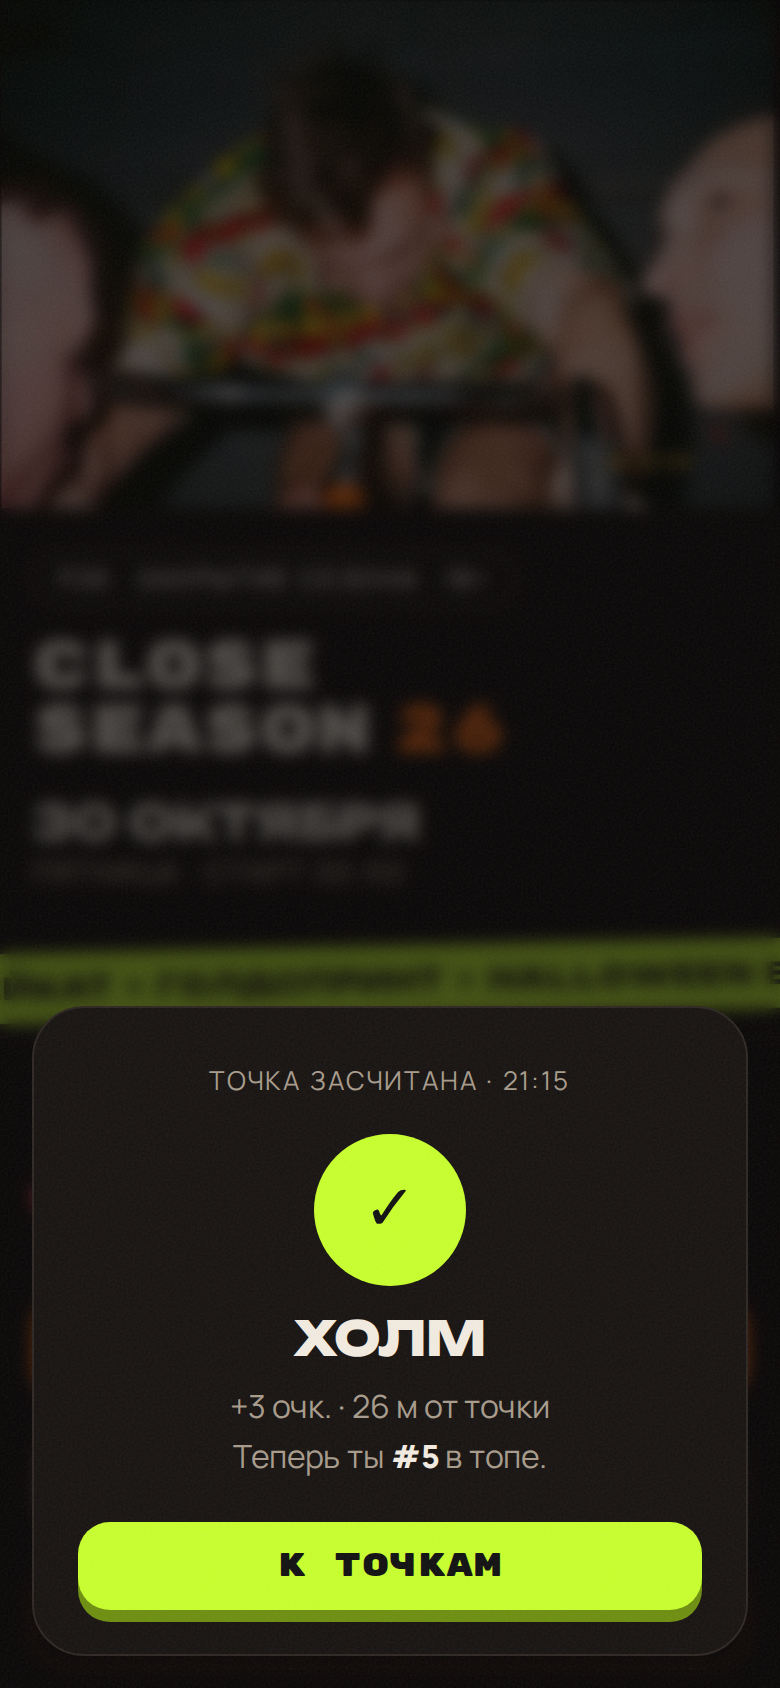
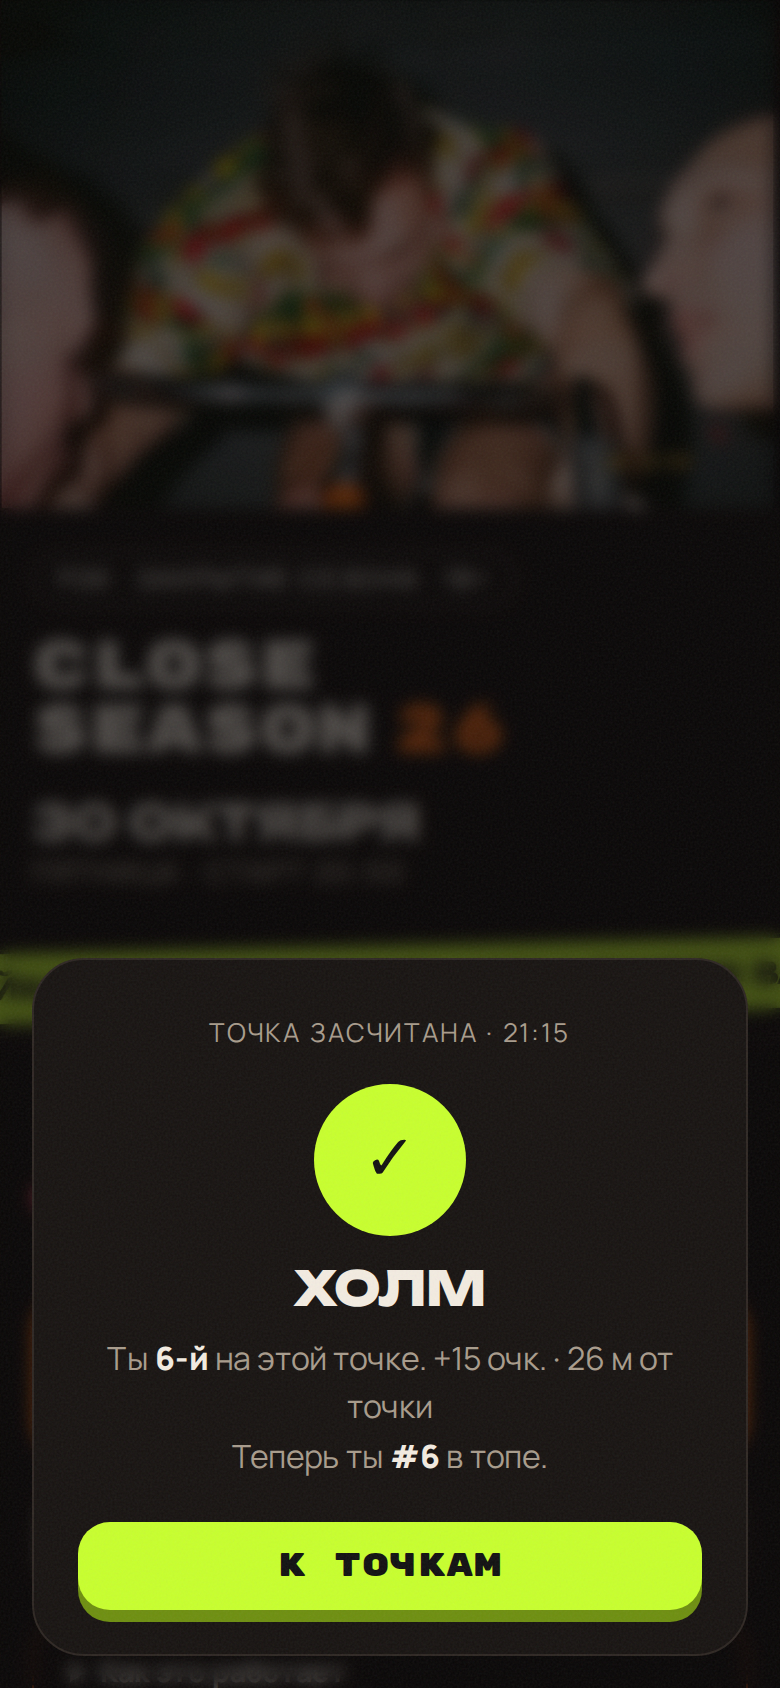
Черновик: очки по месту прибытия на точку (не опубликовано)
На каждой точке первый получает «Очки за первое место» (10), каждый
следующий на 1 меньше, не меньше минимума (1); ценность точки — множитель.
Финиш не сканируется и не идёт в зачёт. Ждёт подтверждения правила —
в unpavedrace/main не отправлено.

Claude-Session: https://claude.ai/code/session_0122weFEyBkPzVmy7e3pz2TB

diff --git a/server/test/server.test.js b/server/test/server.test.js
@@ -42,7 +42,7 @@ assert.equal(post({action:'register',telegram:'late',gender:'М',payment:'x'}).o
 st=get(); assert.equal(st.open,true); assert.equal(st.checkpoints.length,3); assert.ok(!('secret' in st.checkpoints[0])); assert.deepEqual(st.leaderboard,[]);
 r=post({action:'scan',nick:'bob_1',cp:'c1',k:'wrong',lat:c1[3],lng:c1[4]}); assert.match(r.error,/не подошёл/);
 r=post({action:'scan',nick:'bob_1',cp:'c1',k:c1[7],lat:c1[3]+0.01,lng:c1[4],accuracy:10}); assert.equal(r.far,true); 
-r=post({action:'scan',nick:'bob_1',cp:'c1',k:c1[7],lat:c1[3]+0.001,lng:c1[4],accuracy:10}); assert.equal(r.ok,true); assert.equal(r.value,1); 
+r=post({action:'scan',nick:'bob_1',cp:'c1',k:c1[7],lat:c1[3]+0.001,lng:c1[4],accuracy:10}); assert.equal(r.ok,true); assert.equal(r.value,10,'первый на точке ×1'); assert.equal(r.place,1); 
 r=post({action:'scan',nick:'bob_1',cp:'c1',k:c1[7],lat:c1[3],lng:c1[4]}); assert.equal(r.already,true);
 r=post({action:'scan',nick:'blocked_guy',cp:'c1',k:c1[7],lat:c1[3],lng:c1[4]}); assert.match(r.error,/не допущен/);
 r=post({action:'scan',nick:'ghost',cp:'c1',k:c1[7],lat:c1[3],lng:c1[4]}); assert.match(r.error,/Войди/);
@@ -50,7 +50,8 @@ r=post({action:'scan',nick:'bob_1',cp:'c2',k:c2[7],lat:c2[3],lng:c2[4],accuracy:
 r=post({action:'scan',nick:'fixie_masha',cp:'c2',k:c2[7],lat:c2[3],lng:c2[4],accuracy:5}); assert.equal(r.ok,true);
 r=post({action:'scan',nick:'bob_1',cp:'c2',k:c2[7],lat:c2[3],lng:c2[4],accuracy:5}); assert.equal(r.ok,true);
 st=get();
-assert.deepEqual(st.leaderboard.map(x=>[x.nick,x.score]),[['bob_1',3],['fixie_masha',2]]);
+// c2 ценность 2: masha первая (20), bob второй (18); c1: bob первый (10)
+assert.deepEqual(st.leaderboard.map(x=>[x.nick,x.score]),[['bob_1',28],['fixie_masha',20]]);
 // «Гонка только после оплаты»
 S('Настройки').data.find(r=>r[0]==='Гонка только после оплаты')[1]='да';
 r=post({action:'scan',nick:'early_bird',cp:'c1',k:c1[7],lat:c1[3],lng:c1[4],accuracy:5}); assert.match(r.error,/Оплата/);
@@ -58,7 +59,17 @@ S('Настройки').data.find(r=>r[0]==='Гонка только после 
 // повторный setup не затирает настройки и не дублирует строки
 const before=JSON.stringify(S('Настройки').data); ctx.setup(); assert.equal(JSON.stringify(S('Настройки').data),before);
 r=post({action:'scan',nick:'fixie_masha',cp:'c1',k:c1[7],lat:c1[3],lng:c1[4],accuracy:5}); 
-st=get(); assert.deepEqual(st.leaderboard.map(x=>[x.nick,x.score]),[['bob_1',3],['fixie_masha',3]],'tie: earlier first');
+st=get(); assert.deepEqual(st.leaderboard.map(x=>[x.nick,x.score]),[['fixie_masha',29],['bob_1',28]],'masha вторая на c1: +9');
+assert.deepEqual(st.leaderboard[0].scans.map(x=>x.slice(2)),[[1,20],[2,9]],'в топе видно место и очки на каждой точке');
+// правило очков: минимум, множитель, равенство по времени
+{ const sx={firstPoints:3,minPoints:1}; const P=[{id:'a',value:1},{id:'b',value:2},{id:'f',value:5,final:true}];
+  const sc=[['u1','a',1],['u2','a',2],['u3','a',3],['u4','a',4],['u4','b',5],['u3','b',6],['u1','f',7]].map(([nick,cp,at])=>({nick,cp,at}));
+  const lb=ctx.leaderboard_(sx,P,sc).map(x=>[x.nick,x.score]);
+  // a: 3,2,1,1 ; b(×2): u4 6, u3 4 ; финиш не считается
+  assert.deepEqual(lb,[['u4',7],['u3',5],['u1',3],['u2',2]]);
+  const P2=[{id:'a',value:1},{id:'c',value:1}];
+  const tie=ctx.leaderboard_(sx,P2,[{nick:'y',cp:'c',at:2},{nick:'x',cp:'a',at:1}]).map(x=>[x.nick,x.score]);
+  assert.deepEqual(tie,[['x',3],['y',3]],'при равенстве выше тот, кто набрал раньше'); }
 
 
 // описание, фото и координаты точек; перестройка старых листов
@@ -119,7 +130,7 @@ const NEW_HEAD=["ID","Название","Координаты","Ценность
   g6.ctx.setup();
   assert.deepEqual(pts.data.slice(1).map(r=>r[0]),["p2","p1","fin","","p3"]);
   assert.equal(pts.data[2][5],'s1','чужой секрет не меняется');
-  pts.data.slice(1).forEach(r=>{ if(r[0]){ assert.ok(r[5]); assert.match(r[6],new RegExp('\\?cp='+r[0]+'&k='+r[5]+'$')); } else assert.equal(r[6],''); });
+  pts.data.slice(1).forEach(r=>{ if(r[0]&&r[4]!=='да'){ assert.ok(r[5]); assert.match(r[6],new RegExp('\\?cp='+r[0]+'&k='+r[5]+'$')); } else { assert.equal(r[6],''); assert.equal(r[7],''); } });
 }
 
 // служебные команды по ключу администратора
@@ -130,7 +141,7 @@ const NEW_HEAD=["ID","Название","Координаты","Ценность
   assert.equal(call({op:'points'}).error,'Нет доступа'); assert.equal(call({op:'points',key:'wrong'}).error,'Нет доступа');
   const pts=g7.sheets['Точки'].data; pts[1][0]=''; pts[1][5]=''; pts[1][6]='';
   const res=call({op:'refresh',key}); assert.equal(res.ok,true); assert.equal(res.points[0].id,'p1'); assert.ok(res.points[0].secret);
-  assert.match(res.points[0].link,/\?cp=p1&k=/); assert.equal(res.points[2].id,'fin');
+  assert.match(res.points[0].link,/\?cp=p1&k=/); assert.equal(res.points[2].id,'fin'); assert.equal(res.points[2].link,'','у финиша нет QR');
   assert.equal(call({op:'points',key}).points.length,3);
   keyRow[1]=''; assert.equal(call({op:'points',key:''}).error,'Нет доступа','пустой ключ не открывает');
 }
@@ -156,6 +167,22 @@ const NEW_HEAD=["ID","Название","Координаты","Ценность
   r=post({action:'admin',op:'coords',key,id:'c1',lat:55.7612345,lng:49.1234567}); assert.equal(r.coords,'55.761235, 49.123457');
   assert.equal(row[2],'55.761235, 49.123457');
   assert.match(post({action:'admin',op:'coords',key,id:'nope',lat:1,lng:2}).error,/нет в таблице/);
+}
+
+// финиш: не сканируется и не идёт в зачёт
+{ const {load:l9}=require('./gas-mock'); const g9=l9(); g9.ctx.setup();
+  const S9=n=>g9.sheets[n]; S9('Настройки').data.find(r=>r[0]==='Старт')[1]=new Date(Date.now()+3600e3).toISOString();
+  const key=S9('Настройки').data.find(r=>r[0]==='Ключ администратора')[1];
+  const post=b=>JSON.parse(g9.ctx.doPost({postData:{contents:JSON.stringify(b)}}).s);
+  post({action:'register',telegram:'rider1',gender:'М',payment:'x'});
+  S9('Настройки').data.find(r=>r[0]==='Старт')[1]=new Date(Date.now()-1000).toISOString();
+  const finRow=S9('Точки').data.find(r=>r[0]==='fin'); assert.equal(finRow[6],''); assert.equal(finRow[7],'');
+  const [la,ln]=finRow[2].split(',').map(Number);
+  assert.match(post({action:'scan',nick:'rider1',cp:'fin',k:finRow[5],lat:la,lng:ln}).error,/финише/);
+  assert.match(post({action:'scan',test:key,cp:'fin',k:finRow[5],lat:la,lng:ln}).error,/финиш/);
+  // даже если в «Сканах» оказалась строка финиша, в очки она не идёт
+  S9('Сканы').data.push([new Date(),'rider1','fin',5,0,5,'ok']); g9.cache.clear();
+  assert.deepEqual(JSON.parse(g9.ctx.doGet({parameter:{action:'state'}}).s).leaderboard,[]);
 }
 
 // без setup - понятная ошибка

diff --git a/app.js b/app.js
@@ -90,17 +90,25 @@
     const regs = { [R.demoUser.nick]: { amount: 300, paid: true } };
     const price = (g) => (g === "Ж" ? 0 : Date.now() < Date.parse("2026-10-26T00:00:00+03:00") ? 300 : 600);
 
+    // как на сервере: первый на точке получает 10, следующий на 1 меньше (не меньше 1), × ценность
+    const placePts = (value, place) => value * Math.max(10 - (place - 1), 1);
     function board() {
       const all = R.riders.map((r) => ({ nick: r.nick, scans: r.scans.map(([id, m]) => [id, at(m)]) }));
       if (mine.length) all.push({ nick: R.demoUser.nick, scans: mine });
-      return all
-        .map((r) => ({
-          nick: r.nick,
-          scans: r.scans,
-          score: r.scans.reduce((s, [id]) => s + byId[id].value, 0),
-          reachedAt: Math.max(...r.scans.map((x) => x[1])),
-        }))
-        .sort((a, b) => b.score - a.score || a.reachedAt - b.reachedAt);
+      const flat = [];
+      all.forEach((r) => r.scans.forEach(([id, t]) => flat.push({ nick: r.nick, id, t })));
+      const placed = {};
+      const rows = {};
+      flat.sort((a, b) => a.t - b.t).forEach((x) => {
+        if (byId[x.id].final) return;
+        const place = (placed[x.id] = (placed[x.id] || 0) + 1);
+        const pts = placePts(byId[x.id].value, place);
+        const r = rows[x.nick] || (rows[x.nick] = { nick: x.nick, score: 0, reachedAt: 0, scans: [] });
+        r.score += pts;
+        r.reachedAt = Math.max(r.reachedAt, x.t);
+        r.scans.push([x.id, x.t, place, pts]);
+      });
+      return Object.values(rows).sort((a, b) => b.score - a.score || a.reachedAt - b.reachedAt);
     }
 
     return {
@@ -143,8 +151,9 @@
         const d = distanceM(v, c);
         if (d > R.radius) return { ok: false, far: true, distance: Math.round(d), radius: R.radius, cp: v.cp };
         const t = at(75);
+        const place = board().reduce((n, r) => n + r.scans.filter((x) => x[0] === v.cp).length, 0) + 1;
         mine.push([v.cp, t]);
-        return { ok: true, cp: v.cp, value: c.value, distance: Math.round(d), at: t };
+        return { ok: true, cp: v.cp, value: placePts(c.value, place), place, distance: Math.round(d), at: t };
       },
     };
   })();
@@ -252,19 +261,25 @@
     renderBoard();
   }
 
+  // точки, которые надо сканировать (финиш не сканируется)
+  const scanPoints = () => state.checkpoints.filter((c) => !c.final);
+
   function renderMe() {
     const me = myRow();
     $("me").innerHTML =
       '<span class="me__nick">@' + esc(me.nick) + "</span>" +
       '<span class="me__stat"><b>' + me.score + "</b> очк.</span>" +
-      '<span class="me__stat"><b>' + me.scans.length + "/" + state.checkpoints.length + "</b> точек</span>" +
+      '<span class="me__stat"><b>' + me.scans.length + "/" + scanPoints().length + "</b> точек</span>" +
       '<span class="me__stat me__place"><b>' + (me.place ? "#" + me.place : "-") + "</b> в топе</span>" +
       (payment && !payment.paid ? '<span class="me__warn">оплата пока не подтверждена</span>' : "");
   }
 
   function renderCheckpoints() {
-    const taken = user ? Object.fromEntries(myRow().scans) : {};
-    $("cps").innerHTML = state.checkpoints
+    const taken = {}; // id точки → [время, место, очки]
+    if (user) myRow().scans.forEach((x) => (taken[x[0]] = x.slice(1)));
+    // финиш в конце списка
+    const list = scanPoints().concat(state.checkpoints.filter((c) => c.final));
+    $("cps").innerHTML = list
       .map((c) => {
         const t = taken[c.id];
         const map = "https://yandex.ru/maps/?pt=" + c.lng + "," + c.lat + "&z=17&l=map";
@@ -274,14 +289,19 @@
             ? '<a class="cp__photo" href="' + esc(c.photo) + '" target="_blank" rel="noopener">' +
               '<img src="' + esc(preview(c.photo)) + '" alt="' + esc(c.name) + '" loading="lazy" onerror="this.parentNode.remove()"></a>'
             : "") +
-          '<span class="cp__value" title="ценность точки">×' + c.value + "</span>" +
+          (c.final
+            ? '<span class="cp__value" title="финиш">🏁</span>'
+            : '<span class="cp__value" title="ценность точки">×' + c.value + "</span>") +
           '<div class="cp__body">' +
           (c.final ? '<span class="cp__flag">финиш</span>' : "") +
           "<h3>" + esc(c.name) + "</h3>" +
           (c.description ? '<p class="cp__desc">' + esc(c.description) + "</p>" : "") +
           '<a class="cp__map" href="' + map + '" target="_blank" rel="noopener">на карте ↗</a>' +
           "</div>" +
-          '<span class="cp__status">' + (t ? "✓ " + fmtTime(t) : user ? "не взята" : "") + "</span>" +
+          '<span class="cp__status">' +
+            (c.final ? "сканировать не нужно"
+              : t ? "✓ " + fmtTime(t[0]) + (t[1] ? " · " + t[1] + "-й · +" + t[2] : "")
+              : user ? "не взята" : "") + "</span>" +
           "</li>"
         );
       })
@@ -297,7 +317,7 @@
     $("board").innerHTML = board
       .map((r, i) => {
         const has = new Set(r.scans.map((s) => s[0]));
-        const dots = state.checkpoints.map((c) => '<i class="' + (has.has(c.id) ? "on" : "") + (c.final ? " fin" : "") + '"></i>').join("");
+        const dots = scanPoints().map((c) => '<i class="' + (has.has(c.id) ? "on" : "") + '"></i>').join("");
         return (
           '<li class="row' + (user && r.nick === user.nick ? " row--me" : "") + (i < 3 ? " row--top" : "") + '">' +
           '<span class="row__place">' + (i + 1) + "</span>" +
@@ -463,11 +483,12 @@
 
     await refresh();
     const me = myRow();
-    const final = (state.checkpoints.find((c) => c.id === cp) || {}).final;
+    const left = scanPoints().length - me.scans.length;
     showSheet("ok", name,
+      (res.place ? "Ты <b>" + res.place + "-й</b> на этой точке. " : "") +
       "+" + res.value + " очк. · " + fmtDistance(res.distance) + " от точки" +
         (me.place ? "<br>Теперь ты <b>#" + me.place + "</b> в топе." : "") +
-        (final ? "<br>Финиш! Паркуй велик, внутри награждение и туса." : ""),
+        (left > 0 ? "" : "<br>Все точки взяты! Гони на финиш в верк."),
       "Точка засчитана · " + fmtTime(res.at), "✓");
   }
 

diff --git a/index.html b/index.html
@@ -9,7 +9,7 @@
   <link rel="preconnect" href="https://fonts.googleapis.com">
   <link rel="preconnect" href="https://fonts.gstatic.com" crossorigin>
   <link href="https://fonts.googleapis.com/css2?family=Rubik+Mono+One&family=Unbounded:wght@500;800&family=Manrope:wght@400;600;800&display=swap" rel="stylesheet">
-  <link rel="stylesheet" href="style.css?v=202610071002">
+  <link rel="stylesheet" href="style.css?v=202610071008">
 </head>
 <body>
   <div class="grain" aria-hidden="true"></div>
@@ -52,7 +52,7 @@
             <span class="route__num">01</span>
             <div>
               <h2>Аллейкат <span class="tag tag--acid" data-start="time">20:00</span></h2>
-              <p>По городу развешены QR-коды. Адреса всех точек появятся здесь в <span data-start="time">20:00</span>. Сканируешь код на месте и получаешь очки. <b>Побеждает тот, кто первым соберёт больше всего точек</b>: при равном счёте выше тот, кто успел раньше. Некоторые точки ценнее и дают больше очков. Сканы засчитываются по нику из регистрации. <strong>Шлем обязателен.</strong></p>
+              <p>По городу развешены QR-коды. Адреса всех точек появятся здесь в <span data-start="time">20:00</span>. Точки берёшь в любом порядке и сканируешь код на месте. <b>На каждой точке первый получает больше всего очков, второй меньше, и так далее.</b> Побеждает тот, у кого больше очков в сумме. Некоторые точки ценнее, очки за них умножаются. Сканы засчитываются по нику из регистрации. <strong>Шлем обязателен.</strong></p>
             </div>
           </li>
           <li class="route__step">
@@ -66,7 +66,7 @@
             <span class="route__num">03</span>
             <div>
               <h2>Halloween <span class="tag">bass_u x werk</span></h2>
-              <p>Последняя точка аллейката и туса в самом верке. Возьмите сменку под стрепы и под танцы.</p>
+              <p>Финиш аллейката и туса в самом верке. Возьмите сменку под стрепы и под танцы.</p>
             </div>
           </li>
         </ol>
@@ -194,10 +194,12 @@
           <details class="howto">
             <summary>Как это работает</summary>
             <ol>
-              <li>Доезжаешь до точки и находишь QR-код.</li>
+              <li>Точки берёшь в любом порядке. Доезжаешь до точки и находишь QR-код.</li>
               <li>Сканируешь его камерой телефона, откроется этот сайт.</li>
               <li>Разрешаешь геолокацию: скан засчитывается, только если ты рядом с точкой.</li>
-              <li>Очки = ценность точки (×1…×5). При равенстве очков выше тот, кто набрал их раньше.</li>
+              <li>Кто первым приехал на точку, получает больше всего очков, каждый следующий на 1 меньше. Ценность точки (×2) умножает очки.</li>
+              <li>Побеждает тот, у кого больше очков. При равенстве выше тот, кто набрал их раньше.</li>
+              <li>Финиш в верке, там сканировать ничего не нужно.</li>
             </ol>
           </details>
           <ul class="cps" id="cps"></ul>
@@ -238,8 +240,8 @@
     <p>FGK CloseSeason 26 · 18+</p>
   </footer>
 
-  <script src="config.js?v=202610071002"></script>
-  <script src="data.js?v=202610071002"></script>
-  <script src="app.js?v=202610071002"></script>
+  <script src="config.js?v=202610071008"></script>
+  <script src="data.js?v=202610071008"></script>
+  <script src="app.js?v=202610071008"></script>
 </body>
 </html>

diff --git a/data.js b/data.js
@@ -20,10 +20,10 @@ window.RACE = {
 
   // сканы других участников: [id точки, минут после старта]
   riders: [
-    { nick: "fixie_masha", scans: [["c2", 9], ["c4", 21], ["c6", 38], ["c5", 55], ["fin", 71]] },
-    { nick: "brakeless", scans: [["c1", 6], ["c3", 14], ["c5", 27], ["c6", 44], ["fin", 63]] },
+    { nick: "fixie_masha", scans: [["c2", 9], ["c4", 21], ["c6", 38], ["c5", 55]] },
+    { nick: "brakeless", scans: [["c1", 6], ["c3", 14], ["c5", 27], ["c6", 44]] },
     { nick: "skid_king", scans: [["c1", 5], ["c2", 12], ["c3", 19], ["c4", 30], ["c5", 47], ["c6", 66]] },
-    { nick: "trackstand", scans: [["c4", 15], ["c6", 31], ["fin", 52]] },
+    { nick: "trackstand", scans: [["c4", 15], ["c6", 31]] },
     { nick: "night_owl", scans: [["c3", 11], ["c5", 25], ["c6", 49]] },
     { nick: "ghostride", scans: [["c1", 7], ["c2", 16], ["c4", 29]] },
     { nick: "pumpkin_spin", scans: [["c2", 13], ["c1", 24]] },
